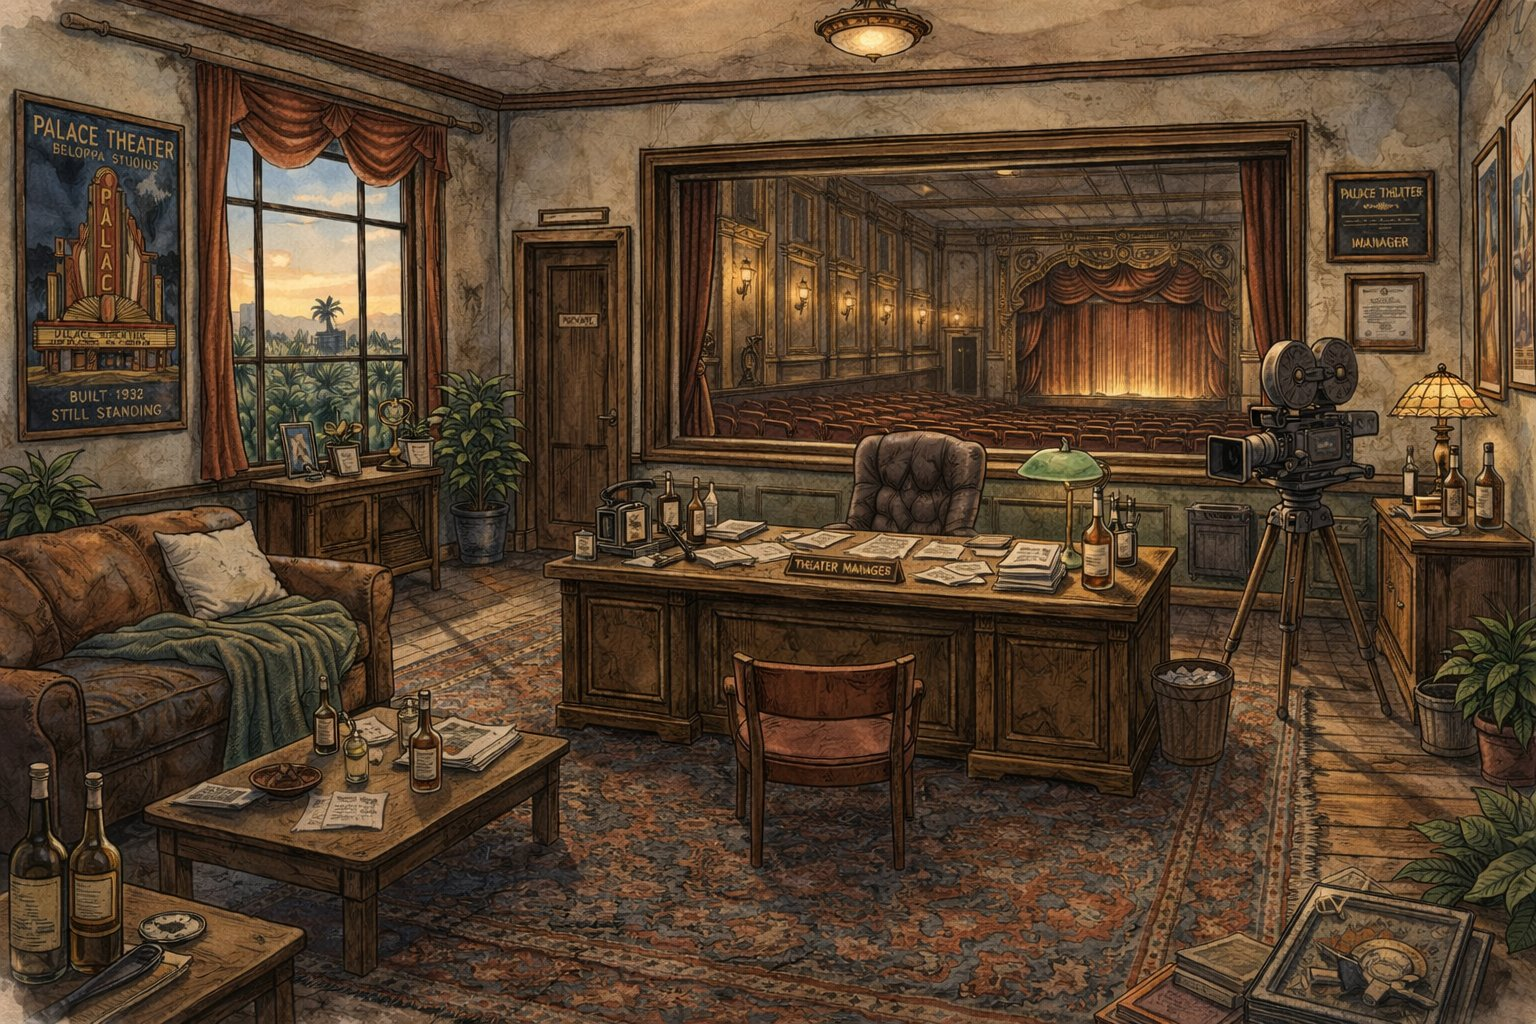
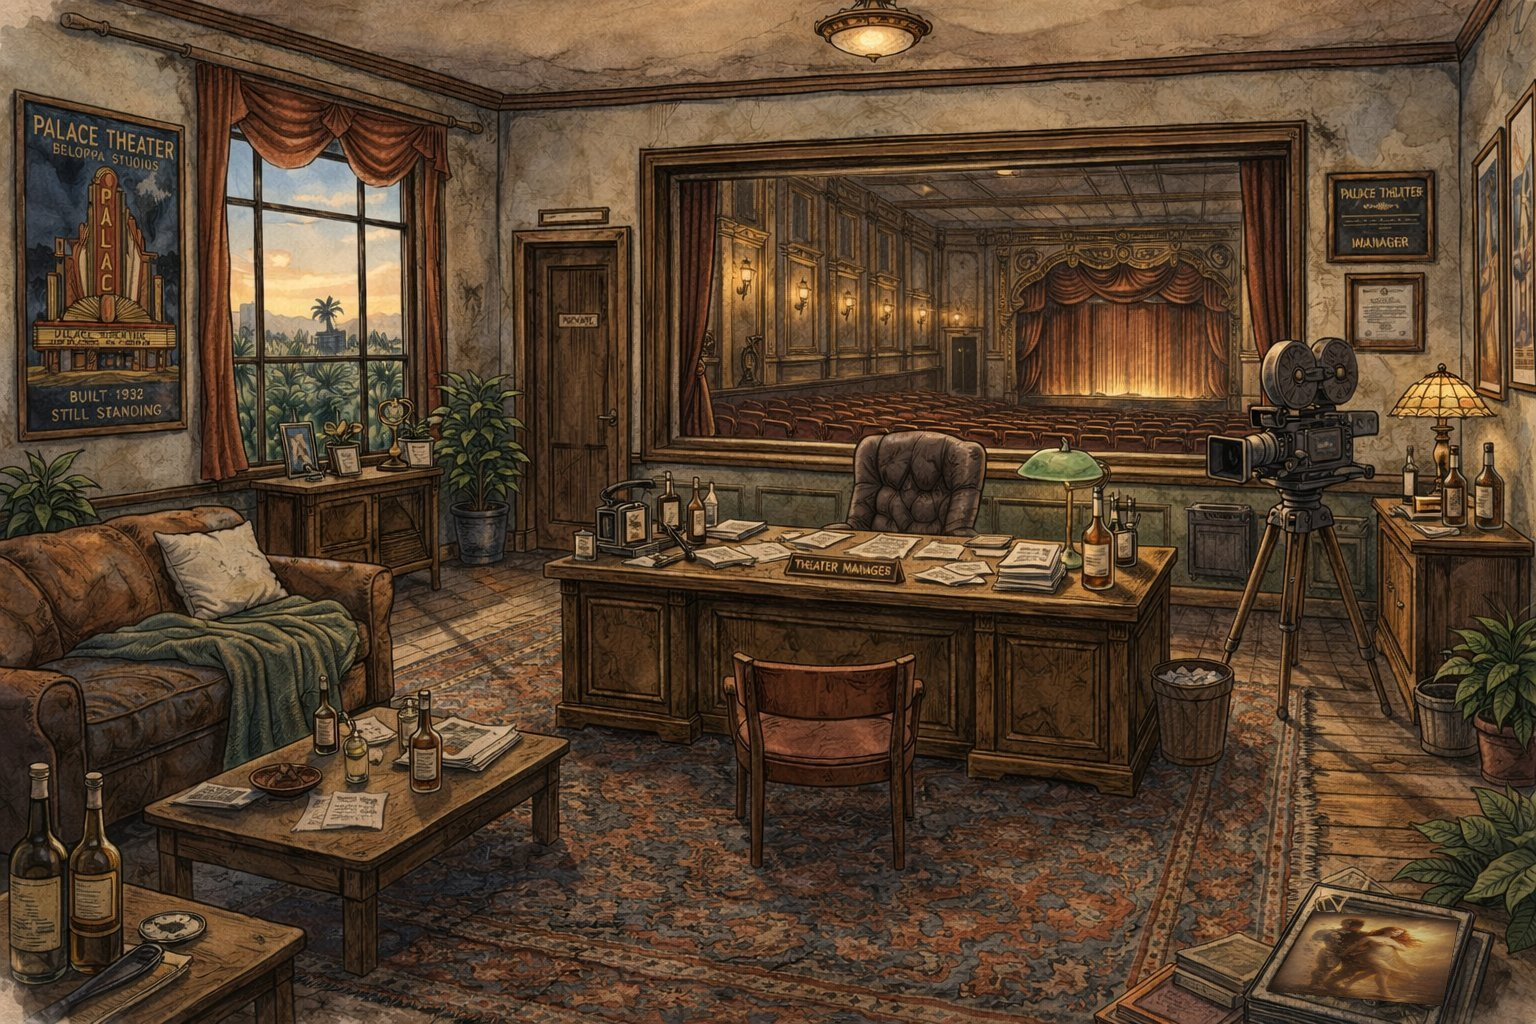
Office Easter egg: Josie's painting in the framed tray on the floor
Sir Purfluous's office clean plate now shows Josie's painting under the glass of the
framed tray lying on the floor, bottom right (her chosen spot). A proposed hotspot on
that frame opens a close-up of the painting, full size and unchanged. The previous
clean plate is preserved in recovery/2026-11-02. world.json rebuilt with
tools/build_world_json.py.

Tested: world map tests 107 passed; studio browser tests 14 passed; clicked the frame
in the running app, the close-up opened at 1024x1536 and Back returned to the office.

Claude-Session: https://claude.ai/code/session_013UWB22P6o2Fw7toN6PXTKC

Changed region(s): [[0.8125, 0.875, 0.9688, 1.0]]

diff --git a/modules/pubcast_world.py b/modules/pubcast_world.py
@@ -197,7 +197,10 @@ WORLD: Dict[str, WorldRoom] = {r.room_id: r for r in (
     WorldRoom(
         "manager_office", "Sir Purfluous's Office",
         views=(_v("main", "manager_office.png", 1536, 1024,
-                  "Theater manager's office"),),
+                  "Theater manager's office"),
+               # Josie (2026-11-02): her painting, hidden as an Easter egg in the frame lying on the floor.
+               _v("painting", "manager_office_painting.png", 1024, 1536,
+                  "Painting in the frame on the floor"),),
         exits=(Exit("lobby_upstairs", "Out to the upstairs lobby", "door",
                     note="Josie (2026-10-18): the entrance and exit is a "
                          "hotspot at the bottom of the screen."),),

diff --git a/recovery/2026-11-02/README.md b/recovery/2026-11-02/README.md
@@ -1,0 +1,3 @@
+# Preserved before editing — November 2, 2026
+
+`world/manager_office.png` is Sir Purfluous's office clean plate exactly as it was before Josie's painting was set into the framed tray on the floor (bottom right). The live copy is `static/world/rooms/manager_office.png`; the painting itself, unchanged, is `static/world/rooms/manager_office_painting.png`. To undo, copy this file back over the live one and remove the `painting` view and the `floor-painting` hotspot, then run `python tools/build_world_json.py`.
